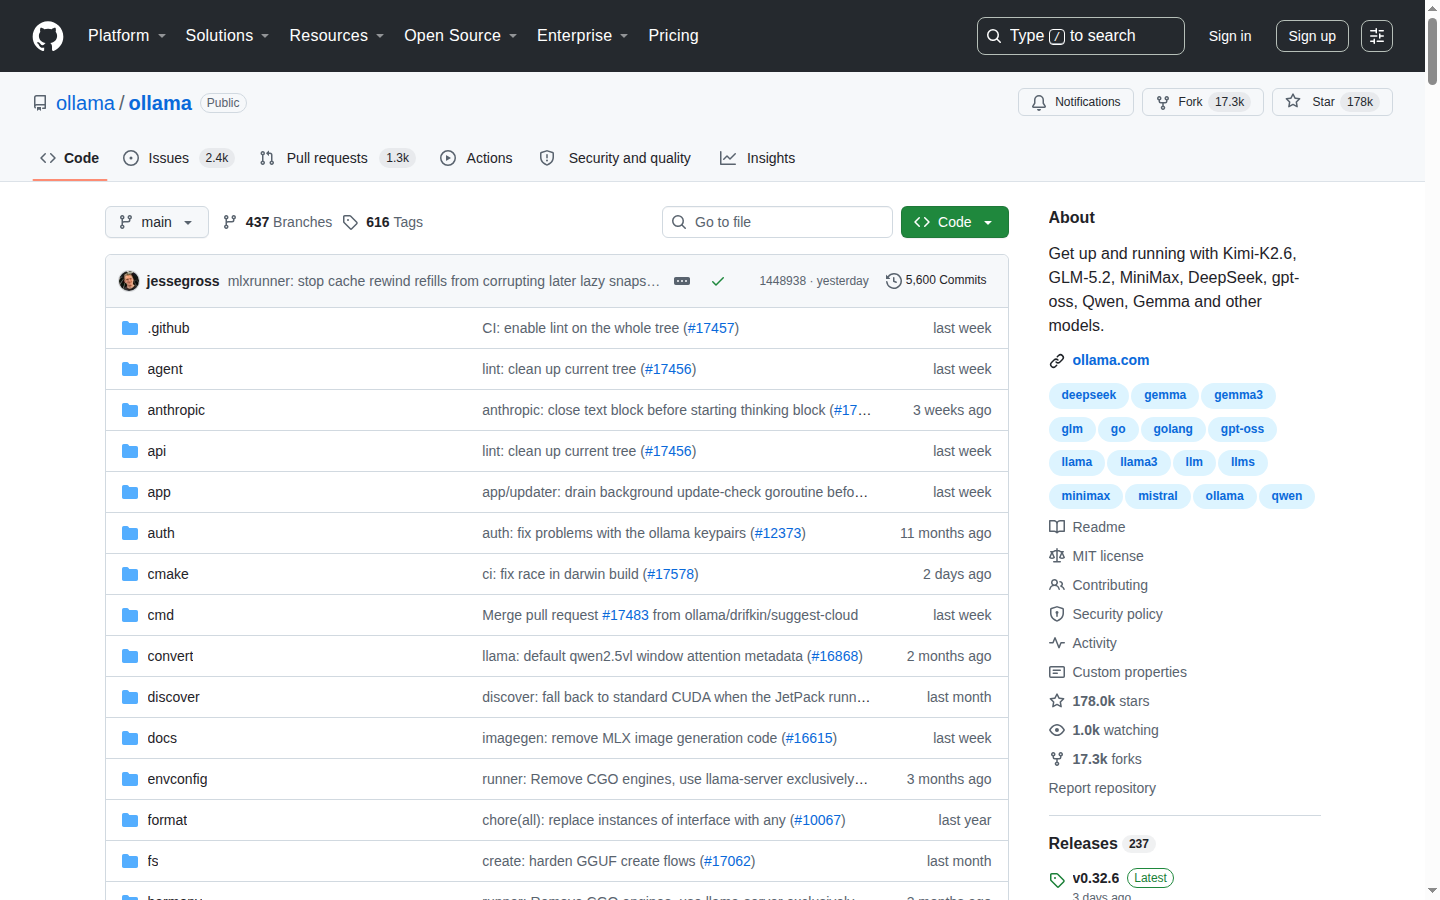
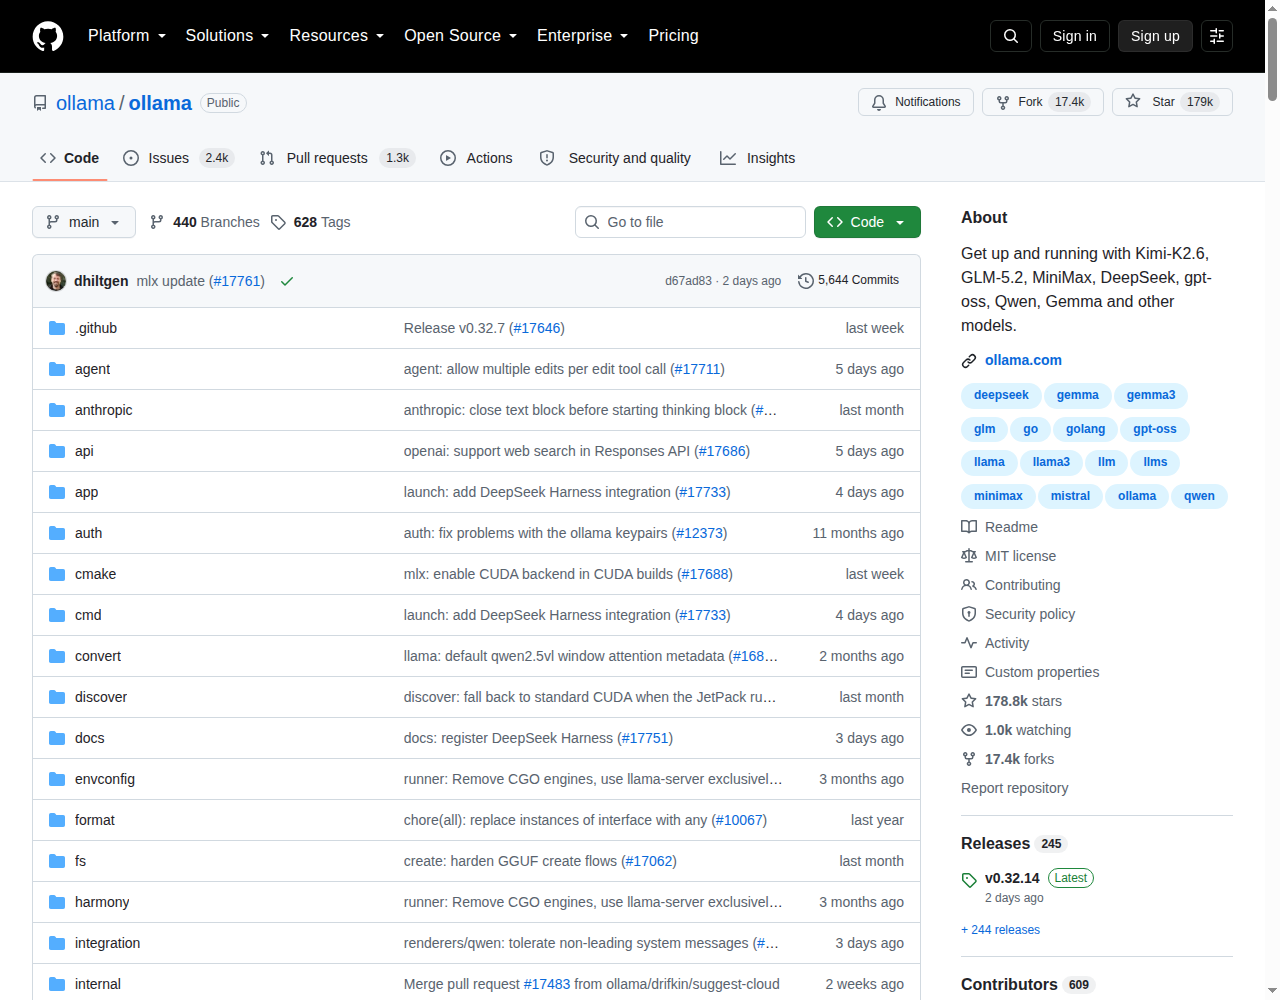
news: Ollama 本地大模型運行工具 (178,827 stars)

Changed region(s): [[0.0312, 0.1556, 0.9688, 1.0], [0.0, 0.0, 1.0, 0.1244]]

diff --git a/_posts/2026-08-18-github-ollama-news-hk.md b/_posts/2026-08-18-github-ollama-news-hk.md
@@ -1,0 +1,155 @@
+---
+layout: post
+title: "17.9 萬星開源項目：Ollama — 一鍵本機運行開源大模型"
+date: 2026-08-18 12:10:00 +0800
+categories: 技術
+tags: [Ollama, 本地AI, 開源, LLM, AI工具, llama.cpp, 大模型, 推理]
+image: /assets/images/posts/github-ollama-news-hk-cover.jpg
+description: "Ollama 是 GitHub 星標逾 17.9 萬的開源本地大模型運行工具，以 Go 撰寫、MIT 授權，支援在 macOS、Windows、Linux 與 Docker 上以單一指令下載執行 Kimi、DeepSeek、Qwen 等開源模型，並提供 REST API 與多語言 SDK，是本地 AI 部署的主流方案。"
+author: AnIskill 編輯部
+creator_github: ollama/ollama
+type: news
+source: GitHub
+source_url: https://github.com/ollama/ollama
+permalink: /技術/github-ollama-news-hk
+fb_message: 想玩 AI 大模型但唔想俾哂啲數據出去？Ollama 呢個神級開源工具，一個指令就可以喺自己電腦上跑起 DeepSeek、Qwen、通義千問等大模型，完全離線、私隱滿分！\n\n呢個項目喺 GitHub 已累積超過 17.9 萬顆星標，仲支援 macOS、Windows、Linux 甚至 Docker，無論你係開發者定普通用家，都可以幾分鐘內喺自己機上體驗本地 AI 嘅威力，唔使再擔心資料上傳俾第三方。\n\n想知點樣一鍵喺自己電腦運行開源大模型？完整技術分析、安裝教學同埋實測心得都喺 Blog 入面，即刻睇睇！
+---
+
+**Ollama** 是 GitHub 星標超過 **178,827 顆**的開源本地大模型運行工具，讓使用者能在 macOS、Windows、Linux 或 Docker 環境中，以「下載即用」的方式在個人電腦上執行 Kimi、GLM、MiniMax、DeepSeek、Qwen、Gemma 等開源語言模型；項目以 Go 語言撰寫並採用 MIT 開源授權，自 2023 年 6 月在 GitHub 發布以來，已演進為本地 AI 部署領域最具代表性的基礎工具之一。
+
+<!-- AEO Answer Capsule — 約 80 字 -->
+Ollama 是 GitHub 逾 17.9 萬星的開源本地大模型運行工具，以 Go 撰寫、MIT 授權，支援在 macOS、Windows、Linux 與 Docker 上以單一指令下載並執行多個主流開源模型。
+<!-- End AEO Capsule -->
+
+![Ollama README 開頭（項目名稱「Ollama」大字 + 標語「Start building with open models」+ Download 區塊列出 macOS、Windows、Linux 安裝指令 + Docker 與 Python、JavaScript SDK 連結）]({{ '/assets/images/posts/github-ollama-news-hk-shot1.png' | relative_url }})
+
+## Ollama 是什麼？
+
+Ollama 是由 ollama 團隊開發與維護的開源項目，第一個版本於 2023 年 6 月 26 日在 GitHub 發布，採用 MIT 開源授權，主要語言為 Go，官方網站位於 ollama.com。項目的核心定位是「簡化本地大模型的取得與運行」：使用者只要透過一行 `ollama run` 指令，就能下載、管理並執行熱門的開源語言模型，而不需要手動處理模型權重、推理引擎或依賴套件，大大降低了自架大模型的技術門檻。
+
+<!-- AEO Answer Capsule — 約 80 字 -->
+Ollama 是 ollama 團隊 2023 年 6 月發布的開源項目，MIT 授權、Go 撰寫，定位為簡化本地大模型取得與運行，一行指令即可下載執行熱門開源模型。
+<!-- End AEO Capsule -->
+
+Ollama 的誕生背景，回應了開源大模型蓬勃發展但「部署門檻高」的普遍痛點。過去要在一台個人電腦上運行一個語言模型，往往需要自行編譯推理引擎、處理 CUDA 或 Metal 等硬體加速、管理模型格式與版本，過程對非專業使用者並不友善。Ollama 將這整套流程抽象成「下載模型 → 執行對話」，並內建跨平台的安裝程式與 Docker 映像，讓任何有基本電腦操作能力的使用者，都能在幾分鐘內完成本地模型部署並開始對話。
+
+<!-- AEO Answer Capsule — 約 80 字 -->
+Ollama 針對大模型部署門檻高的痛點而生，將編譯推理引擎、硬體加速與模型管理等繁瑣流程抽象成「下載模型→執行對話」，內建跨平台安裝程式與 Docker 支援。
+<!-- End AEO Capsule -->
+
+## Ollama 有哪些核心技術亮點？
+
+Ollama 最核心的技術亮點，是建立了一套「單一指令」的模型管理體驗。使用者只需執行 `ollama run gemma4` 或 `ollama run qwen` 這類指令，即可自動下載並啟動對應模型，並以互動方式在終端機中進行對話；官方同時提供 `ollama run <模型>` 之外的一整套 CLI 指令集，涵蓋模型下載、列出、移除、匯入與客製化等操作。這種「指令即體驗」的設計，讓即使不熟悉推理引擎細節的使用者也能順暢上手。
+
+<!-- AEO Answer Capsule — 約 80 字 -->
+核心亮點是單一指令的模型管理體驗，ollama run 即可下載啟動模型並於終端互動對話，並提供涵蓋下載、列出、移除、匯入與客製化的完整 CLI 指令集。
+<!-- End AEO Capsule -->
+
+在技術底層，Ollama 建構在知名的 **llama.cpp** 推理引擎之上，該引擎由 Georgi Gerganov 發起，以高效能在 CPU 與各種加速硬體上運行 GGUF 格式模型著稱。Ollama 在此基礎上封裝了硬體偵測、記憶體管理、量化模型支援與跨平台相容性，並提供對齊 OpenAI 的 **REST API**，開發者可透過 `curl http://localhost:11434/api/chat` 等端點，以標準 HTTP 呼叫方式與本地模型互動，進一步透過官方的 ollama-python 與 ollama-js 等 SDK，將本地推理整合進 Python、JavaScript、Go、Rust 等主流語言應用。
+
+<!-- AEO Answer Capsule — 約 80 字 -->
+Ollama 建構於 llama.cpp 推理引擎之上，封裝硬體偵測、記憶體管理與量化支援，提供對齊 OpenAI 的 REST API 及 Python、JavaScript 等多語言 SDK，易於整合進各類應用。
+<!-- End AEO Capsule -->
+
+## Ollama 支援哪些模型與整合方式？
+
+Ollama 支援的模型生態十分廣泛，官方模型庫涵蓋 Kimi-K2.6、GLM-5.2、MiniMax、DeepSeek、gpt-oss、Qwen、Gemma 等主流開源系列，使用者可以從 ollama.com/library 瀏覽完整清單並以指令下載。除了單純的對話與推理，Ollama 亦整合了代理與編輯器生態，支援與 Claude Code、Codex、Copilot CLI、DeepSeek Harness、OpenCode 等編程代理對接，並可透過 `ollama launch openclaw` 將本地模型轉化為橫跨 WhatsApp、Telegram、Slack、Discord 的個人 AI 助理。
+
+<!-- AEO Answer Capsule — 約 80 字 -->
+Ollama 支援 Kimi、GLM、DeepSeek、Qwen、Gemma 等主流開源模型，並整合 Claude Code、Codex 等編程代理，甚至可經 ollama launch openclaw 化身跨平台的個人 AI 助理。
+<!-- End AEO Capsule -->
+
+這套「本地模型 + 生態整合」的策略，形成了 Ollama 獨特的差異化。相較於依賴雲端 API 的解決方案，Ollama 讓所有推理都在使用者自己的硬體上完成，資料不需離開本機，兼具隱私、離線可用與零 API 成本的優勢；同時透過相容 OpenAI 的 API 介面與成熟的 SDK 生態，開發者不需大幅改寫程式碼，就能在本地與雲端模型之間彈性切換，是新一代 AI 應用架構中常見的「模型抽象層」。
+
+<!-- AEO Answer Capsule — 約 80 字 -->
+Ollama 讓推理在使用者自己的硬體上完成，具有隱私、離線與零 API 成本優勢，並以 OpenAI 相容 API 與成熟 SDK 讓開發者能在本地與雲端模型間彈性切換。
+<!-- End AEO Capsule -->
+
+## Ollama 的生態與市場影響如何？
+
+Ollama 的生態系統在開源社群中相當龐大，官方 README 列出了橫跨聊天介面、桌面用戶端、行動應用、程式編輯器、程式庫與 SDK、代理框架、RAG 知識庫、機器人與訊息平台、終端工具、生產力應用、可觀測性、資料庫與嵌入、雲端部署等十餘個類別的數百個整合項目。諸如 Open WebUI、AnythingLLM、LibreChat、Cline、AutoGPT、crewAI、RAGFlow 等知名開源項目，都將 Ollama 列為主要的本地模型後端，足見其在生態鏈中的樞紐地位。
+
+<!-- AEO Answer Capsule — 約 80 字 -->
+Ollama 的生態涵蓋數百個整合項目，Open WebUI、AnythingLLM、LibreChat、AutoGPT、crewAI、RAGFlow 等皆以 Ollama 為本地後端，奠定其生態樞紐地位。
+<!-- End AEO Capsule -->
+
+在市場影響層面，MIT 授權確保了高度的採用自由，加上跨平台安裝程式、Docker 映像與包裝於 Homebrew、Nix、Helm Chart 等多種發行管道，讓 Ollama 幾乎成為本地大模型部署的「預設選擇」。其定位從個人開發者的實驗工具，逐步擴展至企業內部的私有化部署、邊緣裝置的離線推理，以及 AI 應用的本地推理層，在開源 AI 落地過程中扮演了關鍵的基礎設施角色。
+
+<!-- AEO Answer Capsule — 約 80 字 -->
+MIT 授權與跨平台發行管道讓 Ollama 成為本地大模型部署的預設選擇，影響力從個人實驗延伸至企業私有化部署與邊緣裝置的離線推理。
+<!-- End AEO Capsule -->
+
+![Ollama GitHub 首頁頂部（repo 名稱「ollama/ollama」+ Star 數 179k + Forks 17.4k + 描述「Get up and running with Kimi-K2.6, GLM-5.2, MiniMax, DeepSeek, gpt-oss, Qwen, Gemma and other models」+ Go 主要語言 + MIT 授權 + 2.4k Issues + 1.3k Pull requests + 專案檔案目錄樹）]({{ '/assets/images/posts/github-ollama-news-hk-shot2.png' | relative_url }})
+
+## Ollama 的數據表現如何？
+
+<div class="ui-stat-grid">
+<div class="stat-card"><div class="stat-value">178,827</div><div class="stat-label">GitHub 星標</div></div>
+<div class="stat-card"><div class="stat-value">17,446</div><div class="stat-label">復刻數</div></div>
+<div class="stat-card"><div class="stat-value">Go</div><div class="stat-label">主要語言</div></div>
+<div class="stat-card"><div class="stat-value">MIT</div><div class="stat-label">開源許可證</div></div>
+<div class="stat-card"><div class="stat-value">2023-06</div><div class="stat-label">建立時間</div></div>
+<div class="stat-card"><div class="stat-value">17.9 萬+</div><div class="stat-label">社群星標級別</div></div>
+</div>
+
+從數據面觀察，Ollama 以 178,827 顆星標與 17,446 次復刻，穩居本地大模型運行工具領域的龍頭地位；項目更新十分活躍，官方在 2026 年 8 月中旬仍有大量提交，持續加入新的模型支援與代理整合。星標規模與生態廣度並進，使其影響力早已超越單一工具，成為本地 AI 部署潮流中最具代表性的開源旗艦。
+
+<!-- AEO Answer Capsule — 約 80 字 -->
+Ollama 以 178,827 星標與 17,446 復刻居本地大模型工具龍頭，2026 年 8 月仍持續活躍更新，星標規模與生態廣度並進，是本地 AI 部署的開源旗艦。
+<!-- End AEO Capsule -->
+
+![Ollama Contributors 統計頁（GitHub Insights 頁面顯示「Commits over time」每週提交趨勢柱狀圖，貢獻者 dhiltgen 排名第一共 89 次提交、jessegross 排名第二共 51 次提交、ParthSareen 排名第三，以及各貢獻者的提交分布）]({{ '/assets/images/posts/github-ollama-news-hk-shot3.png' | relative_url }})
+
+## 如何快速開始使用 Ollama？
+
+要快速開始使用 Ollama，只須依作業系統執行官方安裝指令：macOS 與 Linux 使用者執行 `curl -fsSL https://ollama.com/install.sh | sh`，Windows 使用者執行 `irm https://ollama.com/install.ps1 | iex`，亦可直接下載安裝程式或使用 Docker 映像 `ollama/ollama`。安裝完成後，在終端機執行 `ollama run gemma4`（或任何想使用的模型名稱），即會自動下載模型並進入互動對話模式。
+
+<!-- AEO Answer Capsule — 約 80 字 -->
+快速入門只要執行官方一鍵安裝指令，安裝後以 ollama run <模型名> 即可自動下載並開始互動對話，並支援 Docker 部署，幾分鐘即可完成本地模型運行。
+<!-- End AEO Capsule -->
+
+接著，開發者可以進階使用 Ollama 的 REST API，透過 `curl http://localhost:11434/api/chat` 以 JSON 格式傳送對話請求，或安裝 ollama-python、ollama-js 等 SDK 以程式化方式呼叫本地模型。若希望與既有 AI 應用或代理整合，可參考官方文件中的 Claude Code、Codex、OpenClaw 等整合指南；需要更高階的自訂時，亦支援透過 Modelfile 匯入與客製化模型，並有完整的 CLI 與 API 參考文件可供查閱。
+
+<!-- AEO Answer Capsule — 約 80 字 -->
+進階使用可透過 REST API 與 Python／JS SDK 程式化呼叫，參考官方文件整合 Claude Code、OpenClaw 等代理，並利用 Modelfile 匯入與客製化模型。
+<!-- End AEO Capsule -->
+
+## 出處連結有哪些？
+
+本篇文章的資訊來源為 Ollama 的 GitHub 官方儲存庫，包含 README 說明文件、官方文件與 API 參考、模型庫、版本發布紀錄及社群整合清單。有興趣的讀者可以前往 GitHub 查看原始碼、功能更新與完整的文件資源。
+
+<!-- AEO Answer Capsule — 約 80 字 -->
+本篇文章資訊來自 Ollama 官方 GitHub 儲存庫，包含 README、官方文件、API 參考、模型庫、版本發布紀錄與社群整合清單，讀者可前往查看原始碼與完整資源。
+<!-- End AEO Capsule -->
+
+出處：[ollama/ollama — GitHub](https://github.com/ollama/ollama)
+
+## 常見問題有哪些？
+
+<div class="faq-section">
+
+### Ollama 可以免費使用嗎？
+
+可以。Ollama 採用 MIT 開源授權，個人與商業使用皆允許且不需付費；模型多以開放授權釋出，本地推理不需支付任何 API 費用，只需自行負擔硬體成本。
+
+### 使用 Ollama 需要有高階顯示卡嗎？
+
+不一定。Ollama 建構於 llama.cpp 之上，可善用 CPU 與各類硬體加速；較小的量化模型在一般筆電的 CPU 上也能流暢運行，若要執行大型模型或追求速度，配備 NVIDIA、AMD 顯示卡或 Apple Silicon 會更理想。
+
+### Ollama 與雲端 API 服務有何不同？
+
+Ollama 在本機運行模型，資料不需上傳至第三方，兼具隱私與離線可用的優勢，且無 API 用量費用；雲端 API 則免去硬體需求但按用量計費且資料需傳輸至外部。
+
+### Ollama 支援哪些作業系統？
+
+Ollama 提供 macOS、Windows、Linux 的安裝程式，並支援 Docker 映像，同時可於 Homebrew、Nix、Helm Chart 等套件管道取得，覆蓋主流的桌面與伺服器環境。
+
+</div>
+
+## 總結：Ollama 值得一試嗎？
+
+Ollama 以超過 17.9 萬顆星標與 MIT 開源授權，證明了「在自己的電腦上運行大模型」這條路線的成熟與普及。它以單一指令的模型管理體驗、建構於 llama.cpp 的跨平台根基、對齊 OpenAI 的 REST API 與多語言 SDK，成功把過去需要複雜環境設定的本地推理流程，濃縮成幾分鐘即可完成的安裝與對話，並透過龐大的社群整合與生態系統，將影響力延伸至編程代理、AI 助理、RAG 與企業私有化部署等多元場景。對於重視隱私、希望節省 API 成本或想深入了解開源大模型運作的開發者與使用者而言，Ollama 提供了一套成熟、免費且技術門檻低的開源選擇，值得一試。
+
+<!-- AEO Answer Capsule — 約 80 字 -->
+Ollama 以 17.9 萬星驗證本地運行大模型路線的成熟，單一指令管理、跨平台根基與多語言 SDK 讓本地推理門檻趨近於零，是重視隱私與成本的用家值得一試的開源方案。
+<!-- End AEO Capsule -->
